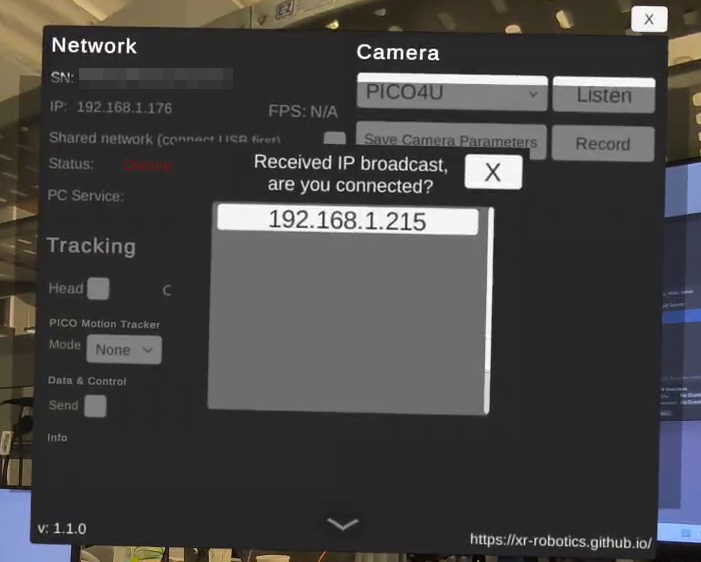
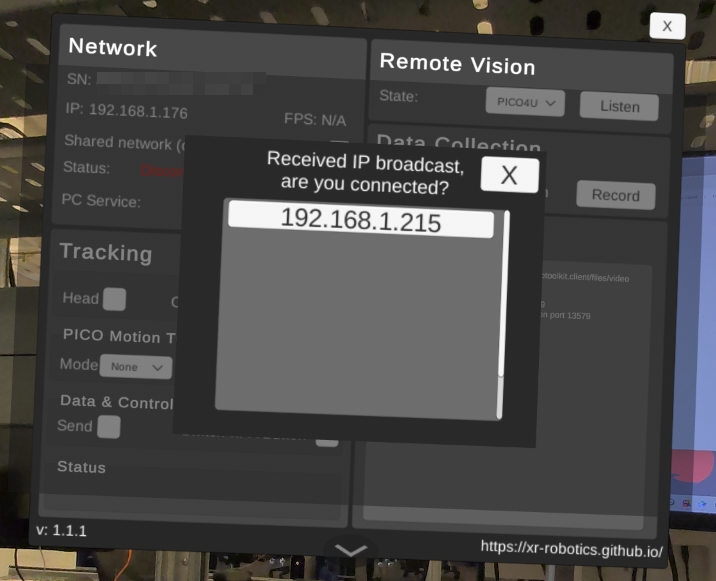
Update README.md

diff --git a/README.md b/README.md
@@ -7,27 +7,29 @@
 
 ![ui.png](Docs/ui.png)
 
-| Item                                           | Description                                                                                              |
-|------------------------------------------------|----------------------------------------------------------------------------------------------------------|
-| Network - SN                                   | Display Serial number of the XR device, only functional with Pico 4 Ultra enterprise version             |
-| Network - IP                                   | IP address of the XR device                                                                              |
-| Network - FPS                                  | Data syncing frames per second                                                                           |
-| Network - Status                               | Connection status between robot and XR device                                                            |
-| Network - PC Service                           | IP address of the PC running PC service                                                                  |
-| Network - Enter                                | Manually input the PC service's IP                                                                       |
-| Tracking - Head                                | Toggle On/Off to send out head 6 DoF pose                                                                |
-| Tracking - Controller                          | Toggle On/Off to parse VR controller's 6 DoF pose and button status in data stream                       |
-| Tracking - Hand                                | Toggle On/Off to parse hand tracking data in data stream                                                 |
-| Tracking - PICO Motion Tracker - Mode          | Dropdown menu to select None, full body tracking (require Pico tracker) to parse in data stream          |
-| Tracking - PICO Motion Tracker - TrackerNum    | Number of the trackers                                                                                   |
-| Tracking - Data & Control - Send               | Toggle On/Off to sync above selected poses between XR device and robot PC                                |
-| Tracking - Data & Control - Switch w/ A Button | Toggle On/Off to rapid pause or resume sync with  the right-hand controller button A                     |
-| Tracking - Info                                | Panel to show tracking related information                                                               |
-| Camera - Dropdown (Video Source)               | Select a supported video source                                                                          |
-| Camera - Listen                                | Open a connection to receive the video stream to the selected video source (used on human operator side) |
-| Camera - Save Camera Parameters                | Save camera intrinsic and extrinsic parameters in local path                                             |
-| Camera - Record                                | Record data                                                                                              |
-| Camera - Camera State                          | Panel to show the camera status (available on the VR headset serving as robot eyes)                      |
+| Item                                           | Description                                                                                     |
+|------------------------------------------------|-------------------------------------------------------------------------------------------------|
+| Network - SN                                   | Display Serial number of the XR device, only functional with Pico 4 Ultra enterprise version    |
+| Network - IP                                   | IP address of the XR device                                                                     |
+| Network - FPS                                  | Data syncing frames per second                                                                  |
+| Network - Status                               | Connection status between robot and XR device                                                   |
+| Network - PC Service                           | IP address of the PC running PC service                                                         |
+| Network - Enter                                | Manually input the PC service's IP                                                              |
+| Tracking - Head                                | Toggle On/Off to send out head 6 DoF pose                                                       |
+| Tracking - Controller                          | Toggle On/Off to parse VR controller's 6 DoF pose and button status in data stream              |
+| Tracking - Hand                                | Toggle On/Off to parse hand tracking data in data stream                                        |
+| Tracking - PICO Motion Tracker - Mode          | Dropdown menu to select None, full body tracking (require Pico tracker) to parse in data stream |
+| Tracking - PICO Motion Tracker - TrackerNum    | Number of the trackers                                                                          |
+| Tracking - Data & Control - Send               | Toggle On/Off to sync above selected poses between XR device and robot PC                       |
+| Tracking - Data & Control - Switch w/ A Button | Toggle On/Off to rapid pause or resume sync with  the right-hand controller button A            |
+| Tracking - Status                              | Panel to show tracking related information                                                      |
+| Remote Vision - State                          | Show the state of camera                                                                        |
+| Remote Vision - Dropdown (Video Source)        | Select a supported video source                                                                 |
+| Remote Vision - Listen                         | Open a connection to receive the video stream to the selected video source                      |
+| Data Collection - Tracking                     | Whether to record pose tracking data                                                            |
+| Data Collection - Vision                       | Whether to record vision data                                                                   |
+| Data Collection - Record                       | Start/Stop recording                                                                            |
+| Log                                            | Show logs                                                                                       |
 
 ## Feature list
 - **Pose sync between XR device and robot PC**
@@ -45,7 +47,7 @@
 2. On robot PC, run service:
    - **Windows**: Run `\Program Files (x86)\roboticsservice\runService.bat`
    - **Linux (Ubuntu/Debian x86)**: Run `/opt/apps/roboticsservice/runService.sh`
-3. Open app XR-Robotics-Toolkit-Unity-Sample on Pico 4 Ultra
+3. Open app XRoboToolkit on Pico 4 Ultra
 
 If the PC service is running successfully, when you open the app on Pico headset, you will receive a prompt window for server connection. Point to the IP address and click it with the trigger button on the controller.
 
@@ -102,7 +104,7 @@ Core resource folder containing all project assets:
 - **InteractionTools**
   XR interaction scripts and 3D models.
 - **Plugins**
-  Android interface implementations including `robotassistant_lib.aar` and Android platform configurations.
+  Android interface implementations including `robotassistant_lib-i18n-release.aar` and Android platform configurations.
 - **Resources**
   Project-specific assets.
 - **Scripts**
@@ -116,7 +118,7 @@ Core resource folder containing all project assets:
   - **UI**
     User interface components.
 
-### robotassistant_lib.aar
+### robotassistant_lib-i18n-release.aar
 Android library containing PICO device interfaces and image processing logic.
 
 ### Key Classes
@@ -148,7 +150,7 @@ Official SDK for PICO device integration:
 - Android Studio 4.2.2+
 - Android SDK 29
 - Android NDK 21.4.7075529
-- PICO Unity SDK 1.1.0 (Recommended)
+- PICO Integration SDK (com.unity.xr.picoxr) 3.1.2
 
 ⚠ **Important Notes**:
 1. Use exact Unity version 2022.3.16f1 to avoid compatibility issues
